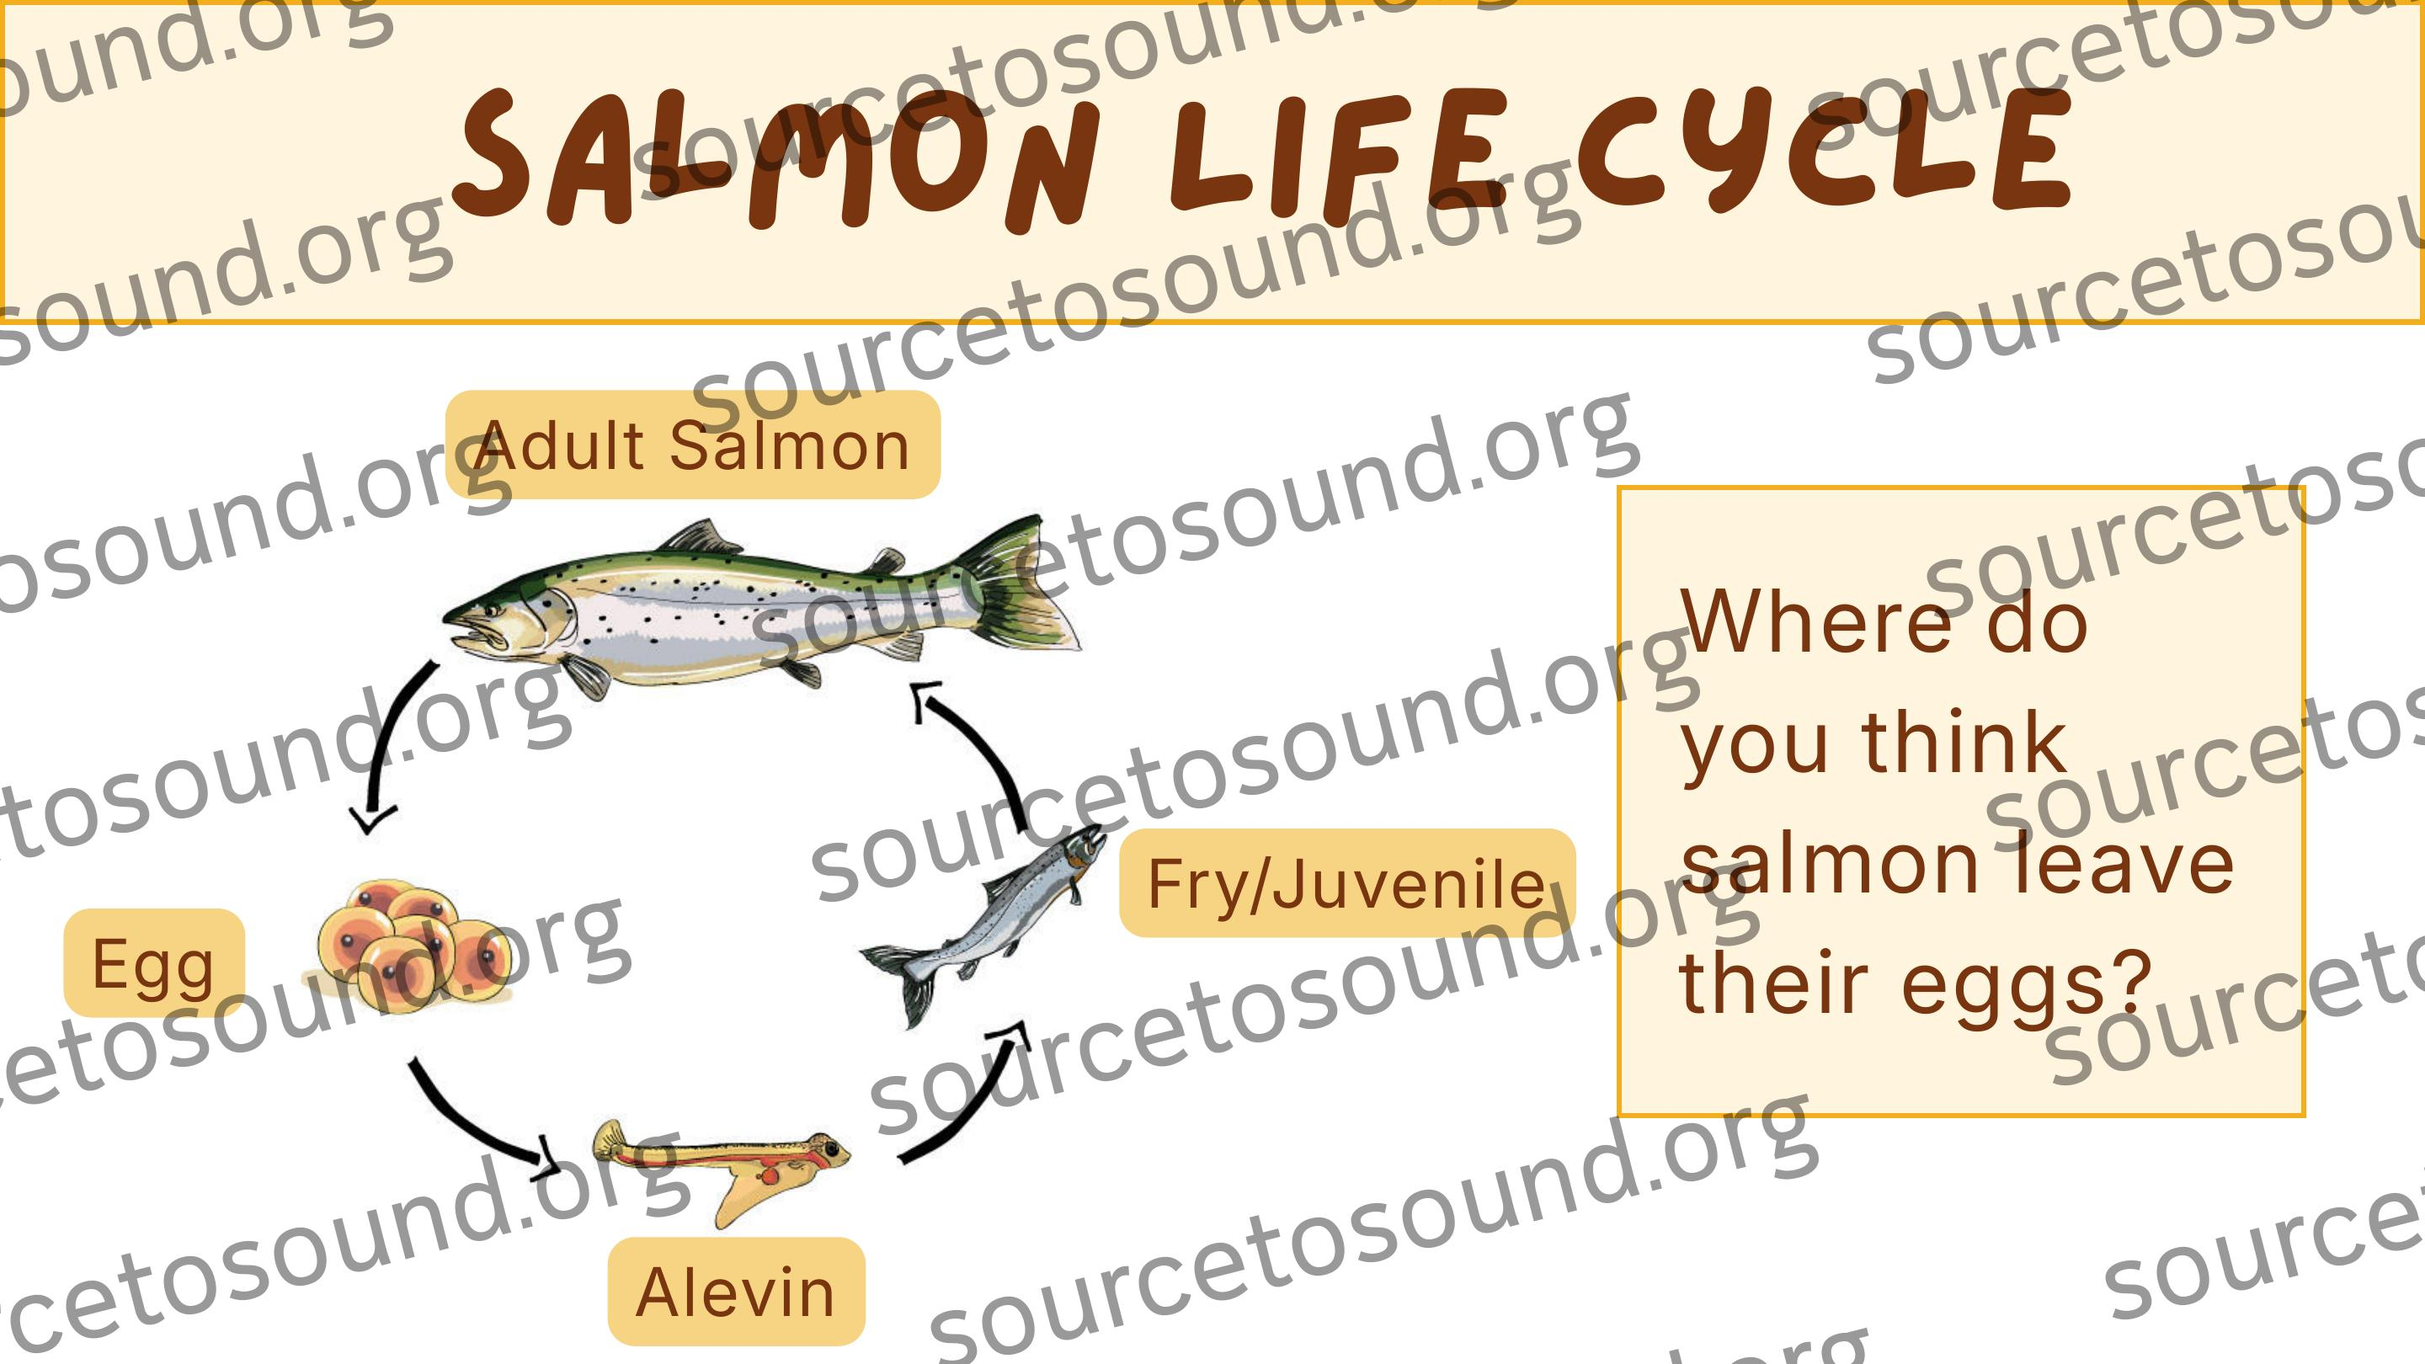
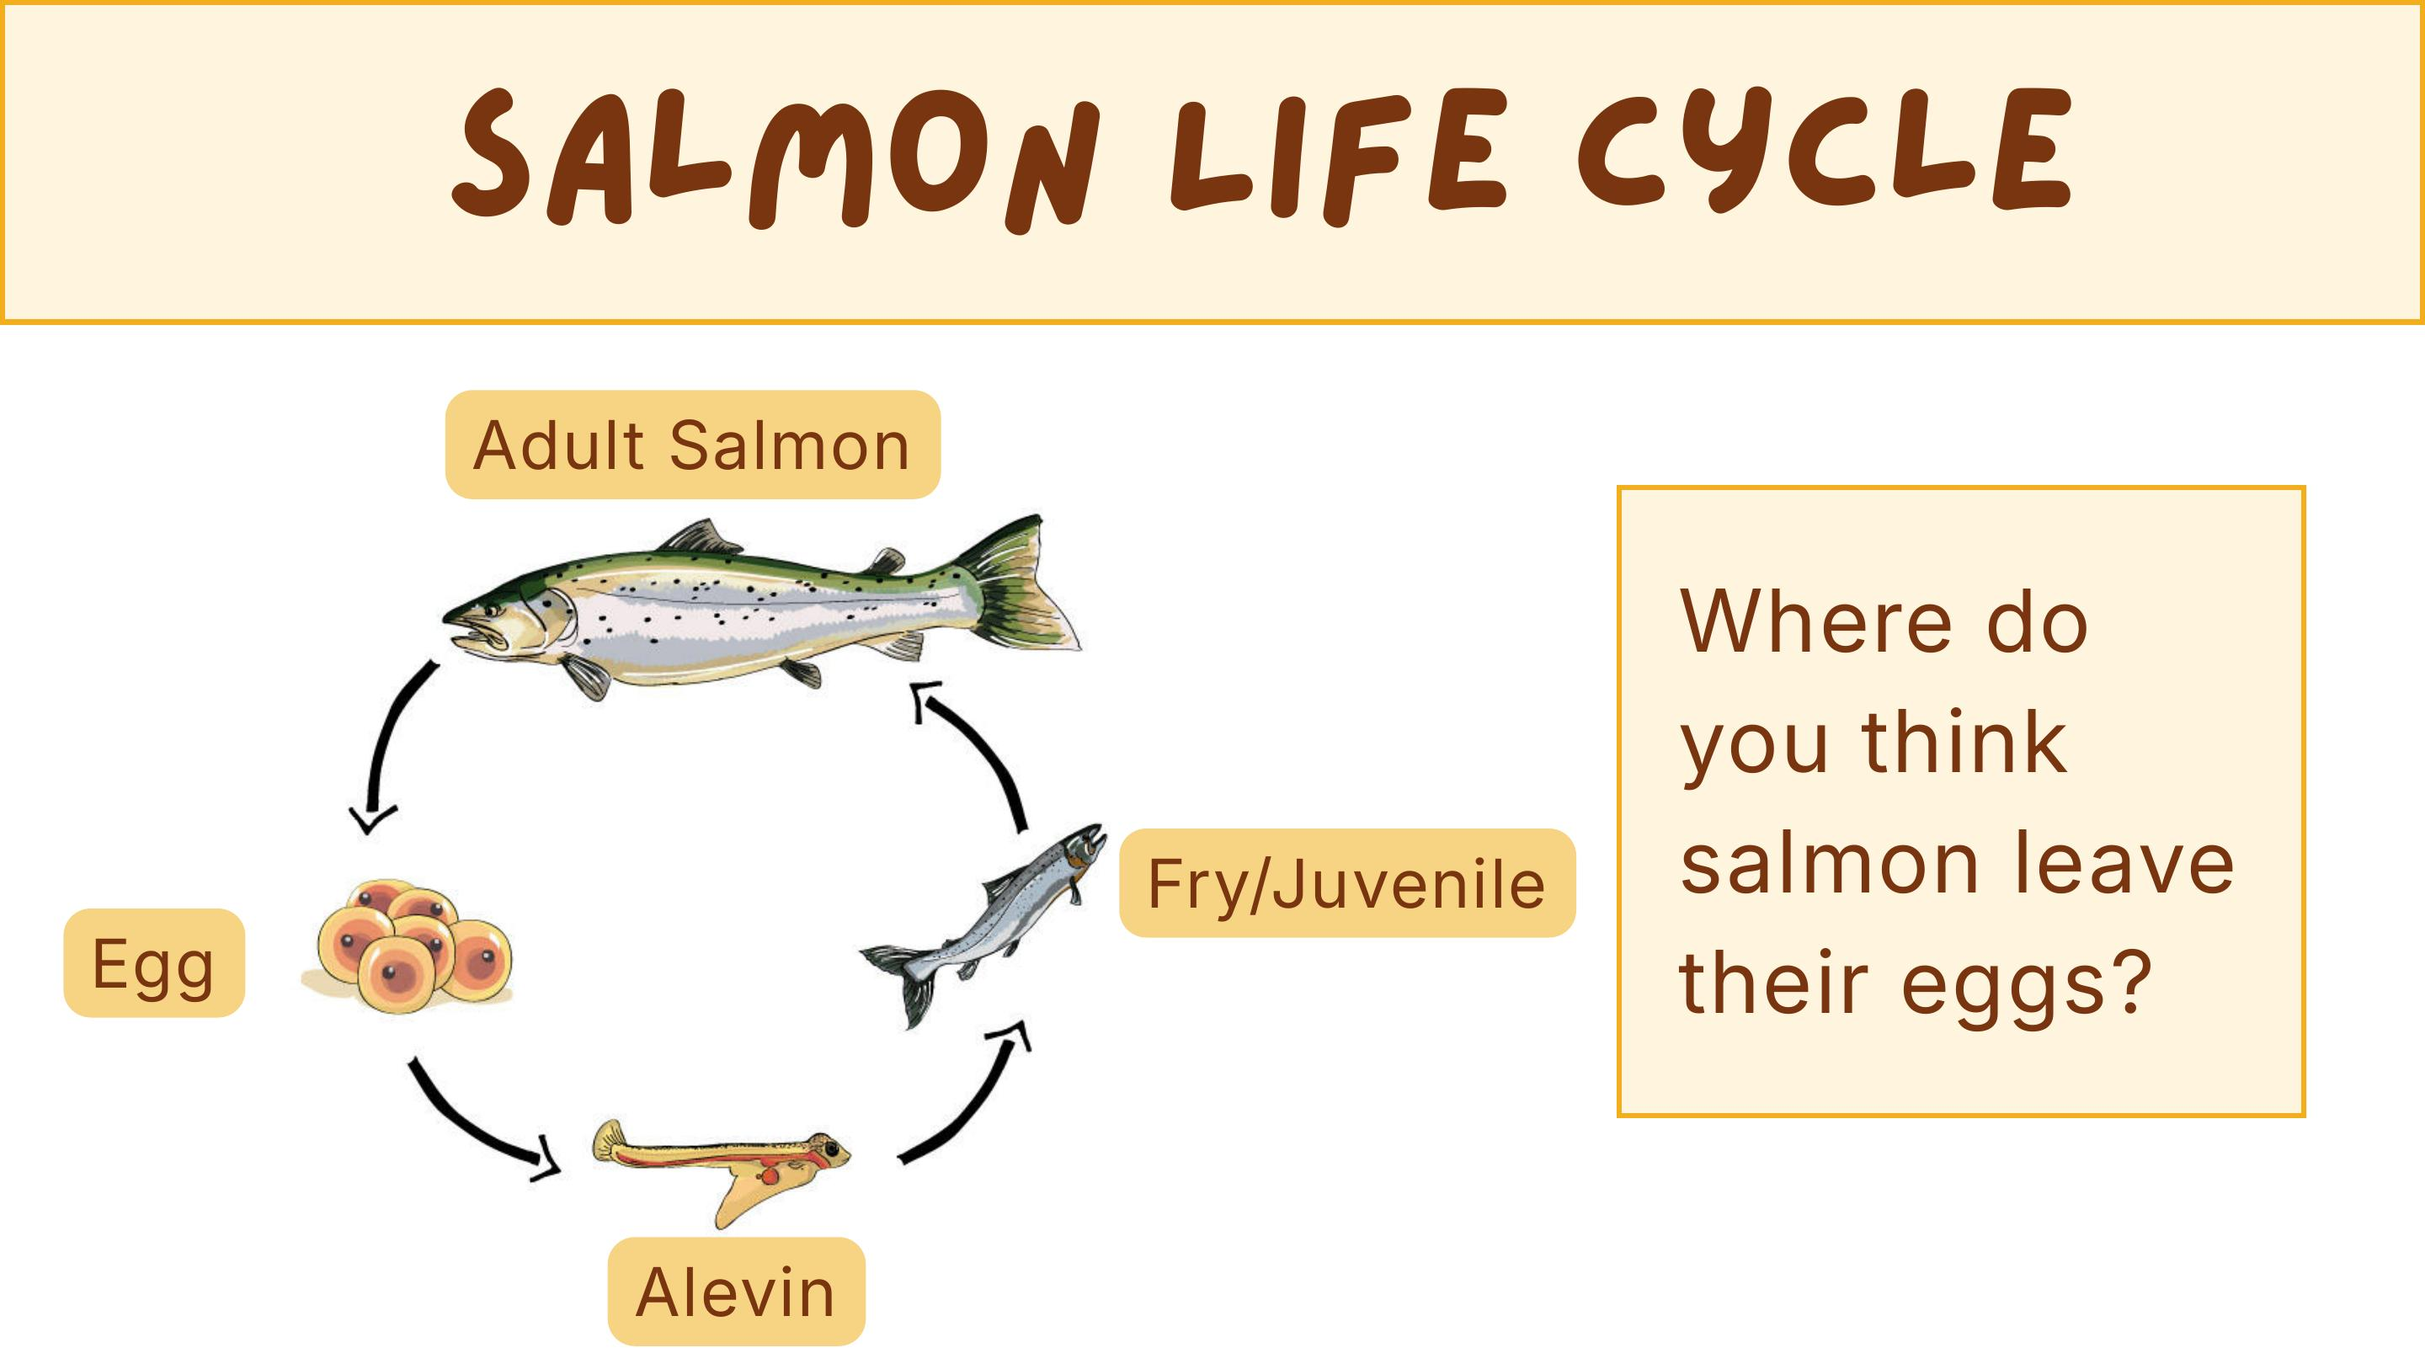
Gate watermarked lesson previews by login

diff --git a/lib/lessons.ts b/lib/lessons.ts
@@ -14,6 +14,7 @@ export type LessonDeck = {
   title: string;
   pdfHref?: string;
   slideImages: string[];
+  watermarkedSlideImages?: string[];
 };
 
 export type Lesson = {
@@ -22,6 +23,7 @@ export type Lesson = {
   shortDescription: string;
   summary: string;
   imageSrc: string;
+  watermarkedImageSrc?: string;
   imageAlt: string;
   gradeRange: string;
   duration: string;
@@ -52,6 +54,14 @@ function numberedSlideImages(folder: string, count: number, padded = false) {
   });
 }
 
+function numberedWatermarkedSlideImages(folder: string, count: number, padded = false) {
+  return Array.from({ length: count }, (_, index) => {
+    const slideNumber = index + 1;
+    const fileNumber = padded ? String(slideNumber).padStart(2, "0") : String(slideNumber);
+    return `/lesson-slides-watermarked/${folder}/slide-${fileNumber}.jpg`;
+  });
+}
+
 export const topicFilters = [
   "Stormwater",
   "Runoff",
@@ -75,6 +85,7 @@ export const lessons: Lesson[] = [
     summary:
       "Students investigate what makes healthy salmon spawning habitat by designing a model redd, the gravel nest where salmon lay their eggs. Teams arrange gravel, pebbles, sand, and model eggs in a stream tray, run a stream flow test, then add fine sediment for a sediment storm test to observe how erosion upstream can change habitat downstream.",
     imageSrc: "/lesson-thumbnails/build-a-salmon-redd.jpg",
+    watermarkedImageSrc: "/lesson-thumbnails/build-a-salmon-redd-watermarked.jpg",
     imageAlt:
       "Build a Salmon Redd lesson slide showing a streambed challenge for keeping salmon eggs safe",
     gradeRange: "Grades 3-5",
@@ -149,6 +160,7 @@ export const lessons: Lesson[] = [
       title: "Build a Salmon Redd",
       pdfHref: "/lesson-downloads/build-a-salmon-redd.pdf",
       slideImages: numberedSlideImages("build-a-salmon-redd", 9),
+      watermarkedSlideImages: numberedWatermarkedSlideImages("build-a-salmon-redd", 9),
     },
     featured: true,
   },
@@ -160,6 +172,7 @@ export const lessons: Lesson[] = [
     summary:
       "Students explore how stormwater runoff carries pollutants from roads and parking lots into salmon streams without filtration. Teams design, build, test, and compare model water filters using pebbles, gravel, sand, cotton balls, and coffee filters, then connect their results to real-world filtration systems such as rain gardens and water treatment plants.",
     imageSrc: "/lesson-thumbnails/water-filtration-challenge.png",
+    watermarkedImageSrc: "/lesson-thumbnails/water-filtration-challenge-watermarked.jpg",
     imageAlt:
       "Students testing water with clear containers during a hands-on filtration challenge",
     gradeRange: "Grades 2-5",
@@ -229,6 +242,7 @@ export const lessons: Lesson[] = [
       title: "Clean the Water Filtration Challenge",
       pdfHref: "/lesson-downloads/water-filtration-challenge.pdf",
       slideImages: numberedSlideImages("water-filtration-challenge", 8),
+      watermarkedSlideImages: numberedWatermarkedSlideImages("water-filtration-challenge", 8),
     },
     featured: true,
   },
@@ -318,6 +332,7 @@ export const lessons: Lesson[] = [
     summary:
       "Students investigate how quickly rainwater moves across different ground surfaces by building simulated surface ramps. Teams test foil or plastic, bare soil, grass or moss, gravel, and sponge surfaces, then compare which surfaces create runoff and which absorb or slow water.",
     imageSrc: "/lesson-thumbnails/raindrop-racers.png",
+    watermarkedImageSrc: "/lesson-thumbnails/raindrop-racers-watermarked.jpg",
     imageAlt:
       "Rain drops on a green leaf during a runoff and absorption investigation",
     gradeRange: "Kindergarten-Grade 2",
@@ -392,6 +407,7 @@ export const lessons: Lesson[] = [
       title: "Raindrop Racers",
       pdfHref: "/lesson-downloads/raindrop-racers.pdf",
       slideImages: numberedSlideImages("raindrop-racers", 8),
+      watermarkedSlideImages: numberedWatermarkedSlideImages("raindrop-racers", 8),
     },
   },
   {
@@ -402,6 +418,7 @@ export const lessons: Lesson[] = [
     summary:
       "Students build ecocolumns from stacked 2-liter bottles with aquatic, decomposition, and terrestrial chambers. They test water and soil conditions, observe how water moves through the system, and connect the model to how soil and roots in rain gardens filter runoff.",
     imageSrc: "/lesson-thumbnails/filtration-lab.png",
+    watermarkedImageSrc: "/lesson-thumbnails/filtration-lab-watermarked.jpg",
     imageAlt:
       "Students working with science materials during a hands-on lab investigation",
     gradeRange: "Grades K-8",
@@ -469,6 +486,7 @@ export const lessons: Lesson[] = [
       title: "Creating an Ecocolumn",
       pdfHref: "/lesson-downloads/creating-an-ecocolumn.pdf",
       slideImages: numberedSlideImages("filtration-lab", 15, true),
+      watermarkedSlideImages: numberedWatermarkedSlideImages("filtration-lab", 15, true),
     },
     featured: true,
   },
@@ -480,6 +498,7 @@ export const lessons: Lesson[] = [
     summary:
       "Students investigate storm drains around their school, document each drain's condition and nearby filtration features, identify the waterway it might connect to, and combine their findings into a class map.",
     imageSrc: "/lesson-thumbnails/drain-detectives.png",
+    watermarkedImageSrc: "/lesson-thumbnails/drain-detectives-watermarked.jpg",
     imageAlt:
       "Rainwater moving along a city street near stormwater infrastructure",
     gradeRange: "Grades K-8",
@@ -544,6 +563,7 @@ export const lessons: Lesson[] = [
       title: "Drain Detectives",
       pdfHref: "/lesson-downloads/drain-detectives.pdf",
       slideImages: numberedSlideImages("drain-detectives", 7),
+      watermarkedSlideImages: numberedWatermarkedSlideImages("drain-detectives", 7),
     },
     featured: true,
   },

diff --git a/components/LessonSlideDeck.tsx b/components/LessonSlideDeck.tsx
@@ -6,11 +6,13 @@ import { useState } from "react";
 type LessonSlideDeckProps = {
   title: string;
   slideImages: string[];
+  isWatermarked?: boolean;
 };
 
 export function LessonSlideDeck({
   title,
   slideImages,
+  isWatermarked = false,
 }: LessonSlideDeckProps) {
   const [currentIndex, setCurrentIndex] = useState(0);
   const hasSlides = slideImages.length > 0;
@@ -42,11 +44,21 @@ export function LessonSlideDeck({
 
       <div className="mt-5 flex flex-1 items-center justify-center overflow-hidden rounded-[1.5rem] border border-forest-100 bg-white">
         {hasSlides ? (
-          <img
-            src={currentSlide}
-            alt={`${title} slide ${currentIndex + 1}`}
-            className="h-full max-h-[560px] w-full object-contain"
-          />
+          <div className="relative flex h-full w-full items-center justify-center">
+            <img
+              src={currentSlide}
+              alt={`${title} slide ${currentIndex + 1}`}
+              className="h-full max-h-[560px] w-full object-contain"
+            />
+            {isWatermarked ? (
+              <span
+                aria-hidden="true"
+                className="pointer-events-none absolute inset-x-[-12%] top-1/2 -translate-y-1/2 rotate-[-18deg] bg-white/70 py-3 text-center text-sm font-black uppercase tracking-[0.32em] text-water-900 shadow-sm sm:text-base"
+              >
+                Source to Sound Preview
+              </span>
+            ) : null}
+          </div>
         ) : (
           <div className="px-6 py-16 text-center">
             <FileText

diff --git a/app/lessons/[slug]/page.tsx b/app/lessons/[slug]/page.tsx
@@ -56,6 +56,10 @@ export default async function LessonDetailPage({ params }: LessonPageProps) {
   const user = await getCurrentUser();
   const isAuthenticated = Boolean(user);
   const relatedLessons = getRelatedLessons(lesson.slug);
+  const previewSlideImages =
+    !isAuthenticated && lesson.deck.watermarkedSlideImages
+      ? lesson.deck.watermarkedSlideImages
+      : lesson.deck.slideImages;
   const additionalDownloads = lesson.downloads.filter(
     (download) =>
       download.href &&
@@ -132,7 +136,8 @@ export default async function LessonDetailPage({ params }: LessonPageProps) {
           <div className="mt-6 grid gap-5 lg:grid-cols-[minmax(0,1.45fr)_minmax(300px,0.75fr)]">
             <LessonSlideDeck
               title={lesson.deck.title}
-              slideImages={lesson.deck.slideImages}
+              slideImages={previewSlideImages}
+              isWatermarked={!isAuthenticated}
             />
 
             <div className="grid gap-5">
@@ -207,7 +212,11 @@ export default async function LessonDetailPage({ params }: LessonPageProps) {
             </h2>
             <div className="mt-6 grid gap-5 md:grid-cols-3">
               {relatedLessons.map((relatedLesson) => (
-                <LessonCard key={relatedLesson.slug} lesson={relatedLesson} />
+                <LessonCard
+                  key={relatedLesson.slug}
+                  lesson={relatedLesson}
+                  isAuthenticated={isAuthenticated}
+                />
               ))}
             </div>
           </div>

diff --git a/components/LessonCard.tsx b/components/LessonCard.tsx
@@ -4,9 +4,16 @@ import type { Lesson } from "@/lib/lessons";
 
 type LessonCardProps = {
   lesson: Lesson;
+  isAuthenticated?: boolean;
 };
 
-export function LessonCard({ lesson }: LessonCardProps) {
+export function LessonCard({ lesson, isAuthenticated = false }: LessonCardProps) {
+  const showWatermarkedPreview = !isAuthenticated;
+  const imageSrc =
+    showWatermarkedPreview && lesson.watermarkedImageSrc
+      ? lesson.watermarkedImageSrc
+      : lesson.imageSrc;
+
   return (
     <Link
       href={`/lessons/${lesson.slug}`}
@@ -15,10 +22,18 @@ export function LessonCard({ lesson }: LessonCardProps) {
     >
       <div className="relative aspect-[16/10] overflow-hidden bg-water-900 text-white">
         <img
-          src={lesson.imageSrc}
+          src={imageSrc}
           alt={lesson.imageAlt}
           className="h-full w-full object-cover transition duration-300 group-hover:scale-[1.02]"
         />
+        {showWatermarkedPreview ? (
+          <span
+            aria-hidden="true"
+            className="pointer-events-none absolute inset-x-[-18%] top-1/2 -translate-y-1/2 rotate-[-18deg] bg-white/72 py-2 text-center text-[11px] font-black uppercase tracking-[0.28em] text-water-900 shadow-sm"
+          >
+            Preview
+          </span>
+        ) : null}
         <span className="absolute left-4 top-4 rounded-full bg-forest-700 px-3 py-1 text-[11px] font-bold text-white shadow-sm">
           {lesson.topics[0]}
         </span>

diff --git a/app/page.tsx b/app/page.tsx
@@ -13,8 +13,11 @@ import {
 import { ButtonLink } from "@/components/ButtonLink";
 import { LessonCard } from "@/components/LessonCard";
 import { lessons } from "@/lib/lessons";
+import { getCurrentUser } from "@/lib/supabase/server";
 
 const featuredLessons = lessons.filter((lesson) => lesson.featured).slice(0, 3);
+
+export const dynamic = "force-dynamic";
 
 const primaryActions = [
   {
@@ -49,7 +52,10 @@ const exploreItems = [
   { icon: Sprout, title: "Initiatives", href: "/initiatives" },
 ];
 
-export default function HomePage() {
+export default async function HomePage() {
+  const user = await getCurrentUser();
+  const isAuthenticated = Boolean(user);
+
   return (
     <section className="relative isolate overflow-hidden bg-[#fbfcf4]">
       <div className="absolute inset-x-0 top-0 h-28 bg-gradient-to-b from-forest-50 to-transparent" />
@@ -162,7 +168,11 @@ export default function HomePage() {
         </div>
         <div className="mt-8 grid gap-5 md:grid-cols-3">
           {featuredLessons.map((lesson) => (
-            <LessonCard key={lesson.slug} lesson={lesson} />
+            <LessonCard
+              key={lesson.slug}
+              lesson={lesson}
+              isAuthenticated={isAuthenticated}
+            />
           ))}
         </div>
       </section>

diff --git a/components/LessonLibrary.tsx b/components/LessonLibrary.tsx
@@ -33,6 +33,7 @@ const activityOptions: Array<"Any activity" | ActivityType> = [
 
 type LessonLibraryProps = {
   lessons: Lesson[];
+  isAuthenticated: boolean;
 };
 
 function TopicIcon({ topic }: { topic: string }) {
@@ -51,7 +52,7 @@ function TopicIcon({ topic }: { topic: string }) {
   return <Leaf aria-hidden="true" size={14} />;
 }
 
-export function LessonLibrary({ lessons }: LessonLibraryProps) {
+export function LessonLibrary({ lessons, isAuthenticated }: LessonLibraryProps) {
   const [query, setQuery] = useState("");
   const [selectedTopics, setSelectedTopics] = useState<string[]>([]);
   const [duration, setDuration] = useState(durationOptions[0]);
@@ -223,7 +224,11 @@ export function LessonLibrary({ lessons }: LessonLibraryProps) {
           </div>
           <div className="grid gap-5 md:grid-cols-2 xl:grid-cols-3">
             {filteredLessons.map((lesson) => (
-              <LessonCard key={lesson.slug} lesson={lesson} />
+              <LessonCard
+                key={lesson.slug}
+                lesson={lesson}
+                isAuthenticated={isAuthenticated}
+              />
             ))}
           </div>
         </section>

diff --git a/app/lessons/page.tsx b/app/lessons/page.tsx
@@ -1,6 +1,9 @@
 import type { Metadata } from "next";
 import { LessonLibrary } from "@/components/LessonLibrary";
 import { lessons } from "@/lib/lessons";
+import { getCurrentUser } from "@/lib/supabase/server";
+
+export const dynamic = "force-dynamic";
 
 export const metadata: Metadata = {
   title: "Lesson Library",
@@ -13,7 +16,10 @@ export const metadata: Metadata = {
   },
 };
 
-export default function LessonsPage() {
+export default async function LessonsPage() {
+  const user = await getCurrentUser();
+  const isAuthenticated = Boolean(user);
+
   return (
     <section className="relative isolate overflow-hidden bg-[#fbfcf4]">
       <div className="absolute inset-x-0 top-0 h-56 bg-gradient-to-b from-forest-50 to-transparent" />
@@ -27,7 +33,7 @@ export default function LessonsPage() {
           </p>
         </div>
         <div className="mt-8">
-          <LessonLibrary lessons={lessons} />
+          <LessonLibrary lessons={lessons} isAuthenticated={isAuthenticated} />
         </div>
       </div>
     </section>
